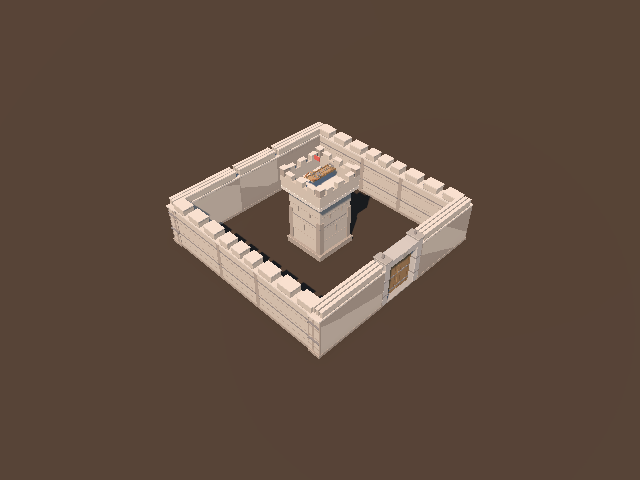
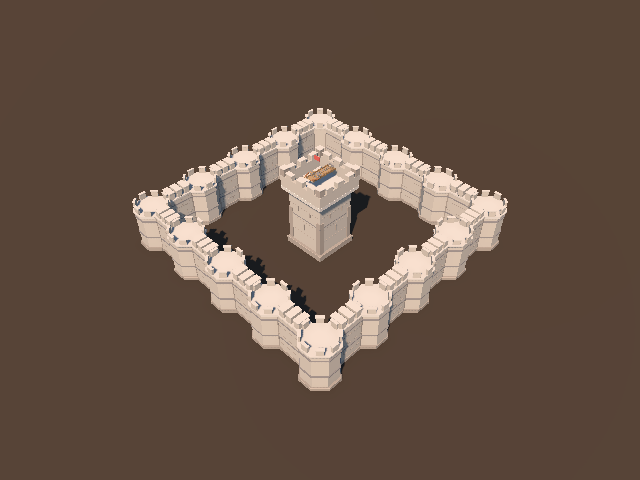
0.9.1

Changed region(s): [[0.1875, 0.2188, 0.8125, 0.8125]]

diff --git a/Defender of the Orcish Marches/Assets/Scripts/UI/TutorialManager.cs b/Defender of the Orcish Marches/Assets/Scripts/UI/TutorialManager.cs
@@ -140,8 +140,9 @@ public class TutorialManager : MonoBehaviour
                 title = "Your Fortress",
                 spriteName = "tut_fortress",
                 body = "At the center of the map stands your <b>Tower</b> — if enemies reach it, the game is over.\n\n" +
-                       "Surrounding the tower is a ring of <b>Walls</b> that block enemy advance. " +
-                       "Your units can slip through the gaps between wall segments.\n\n" +
+                       "Surrounding the tower is a square ring of <b>Walls</b> with octagonal towers " +
+                       "at each joint. Your menials and defenders can slip through the narrow gaps " +
+                       "between towers, but enemies are too large to fit.\n\n" +
                        "Protect the walls. They are your first line of defense."
             },
             new TutorialPage
@@ -151,17 +152,19 @@ public class TutorialManager : MonoBehaviour
                 body = "Use the <b>Scroll Wheel</b> to zoom in and out across the battlefield.\n\n" +
                        "The camera is centered on your fortress, giving you a full overhead view " +
                        "of the surrounding terrain.\n\n" +
-                       "Keep an eye on the western approach — that is where the enemy hordes come from."
+                       "Enemies initially attack from the <b>west</b>, but the spawn arc widens each day — " +
+                       "keep watch in all directions."
             },
             new TutorialPage
             {
                 title = "The HUD",
                 spriteName = "tut_topdown",
                 body = "The bar at the top of the screen shows vital information:\n\n" +
-                       "  <b>Gold</b> — your currency for buying upgrades and defenders\n" +
+                       "  <b>Gold</b> — your currency for upgrades and defenders\n" +
                        "  <b>Menials</b> — idle / total workforce count\n" +
-                       "  <b>Phase Timer</b> — time remaining in the current phase\n" +
-                       "  <b>Enemy Count</b> — how many foes remain\n" +
+                       "  <b>Defenders</b> — count of each defender type\n" +
+                       "  <b>Phase Timer</b> — elapsed game time\n" +
+                       "  <b>Enemy Count</b> — remaining / total enemies this day\n" +
                        "  <b>Kills</b> — total enemies slain\n" +
                        "  <b>Day/Night Wheel</b> — shows the current cycle position"
             },
@@ -170,11 +173,27 @@ public class TutorialManager : MonoBehaviour
                 title = "Day & Night Cycle",
                 spriteName = "tut_side",
                 body = "The game alternates between <b>Day</b> and <b>Night</b> phases.\n\n" +
-                       "<b>Day (Attack Phase)</b>\nEnemies spawn from the <b>west</b> and assault your fortress. " +
-                       "Each day the spawn arc widens, threatening more of your walls.\n\n" +
-                       "<b>Night (Build Phase)</b>\nNo enemies attack. Use this time to buy upgrades, " +
-                       "recruit defenders, and repair walls.\n\n" +
-                       "The day/night wheel on the HUD shows where you are in the cycle."
+                       "<b>Day (Attack Phase)</b>\nEnemies spawn and assault your fortress. " +
+                       "Each day the spawn arc widens, threatening more of your walls. " +
+                       "Enemies grow stronger with each passing day.\n\n" +
+                       "<b>Night (Build Phase)</b>\nOnce all enemies are cleared and the sun sets, " +
+                       "a <b>Build Phase</b> begins. Use this time to place new walls, " +
+                       "recruit defenders, and prepare for the next assault."
+            },
+            new TutorialPage
+            {
+                title = "Build Mode",
+                spriteName = "tut_wallgate",
+                body = "When the <b>Build Phase</b> begins at sunset, wall placement starts automatically " +
+                       "(if you have an engineer and enough gold).\n\n" +
+                       "A green <b>ghost wall</b> follows your cursor. " +
+                       "It snaps to existing walls when close enough.\n\n" +
+                       "  <b>Left Click</b> — place a wall (costs gold)\n" +
+                       "  <b>A / D</b> — rotate the ghost wall\n" +
+                       "  <b>B</b> — exit build mode\n" +
+                       "  <b>Right Click / Escape</b> — exit build mode\n\n" +
+                       "The ghost turns <b>red</b> when you can't afford the next wall. " +
+                       "Build mode ends automatically when you run out of gold."
             },
             new TutorialPage
             {
@@ -198,15 +217,14 @@ public class TutorialManager : MonoBehaviour
             },
             new TutorialPage
             {
-                title = "Walls",
+                title = "Walls & Engineers",
                 spriteName = "tut_wallgate",
-                body = "<b>Walls</b> form a protective ring around your tower. Enemies must break through " +
-                       "them to reach the interior.\n\n" +
-                       "Your menials and defenders can slip through the narrow gaps between wall segments, " +
-                       "but enemies cannot.\n\n" +
-                       "Walls take damage from enemy attacks. If a wall segment is destroyed, " +
-                       "enemies will pour through the breach. You can <b>Build Wall</b> from the " +
-                       "upgrade panel to place new wall segments."
+                body = "<b>Walls</b> form a protective ring around your tower. Each segment is flanked by " +
+                       "octagonal towers that connect to adjacent walls.\n\n" +
+                       "Walls take damage from enemy attacks. When destroyed, enemies pour through the breach.\n\n" +
+                       "New walls placed during <b>Build Mode</b> start under construction — " +
+                       "an <b>Engineer</b> must walk over and build them before they become solid.\n\n" +
+                       "Engineers also automatically <b>repair</b> damaged walls during combat."
             },
             new TutorialPage
             {
@@ -234,9 +252,9 @@ public class TutorialManager : MonoBehaviour
                 spriteName = "tut_side",
                 body = "Press <b>U</b> to open the <b>Upgrade Panel</b>.\n\n" +
                        "Here you can spend gold (and menials) on:\n" +
-                       "  <b>Build Wall</b> — place new wall segments\n" +
                        "  <b>New Defenders</b> — recruit menials into combat roles\n" +
                        "  <b>Ballista Upgrades</b> — more damage, faster fire rate, or additional ballistas\n\n" +
+                       "Number keys <b>1-9</b> act as hotkeys for each upgrade button.\n" +
                        "Press <b>U</b> again or <b>Escape</b> to close the panel."
             },
             new TutorialPage
@@ -244,11 +262,12 @@ public class TutorialManager : MonoBehaviour
                 title = "Defenders",
                 spriteName = "tut_defenders",
                 body = "Defenders are units that fight alongside you. Each type has a unique role:\n\n" +
-                       "  <b>Engineer</b> (30g, 2m) — repairs damaged walls\n" +
+                       "  <b>Engineer</b> (30g, 2m) — repairs damaged walls, builds new ones\n" +
                        "  <b>Pikeman</b> (40g, 2m) — melee fighter, engages enemies up close\n" +
                        "  <b>Crossbowman</b> (50g, 2m) — ranged attacker, fires from a distance\n" +
                        "  <b>Wizard</b> (100g, 3m) — powerful AoE magic, longest range\n\n" +
-                       "Recruit them from the upgrade panel. Costs increase with each purchase."
+                       "Recruit them from the upgrade panel. Costs increase with each purchase. " +
+                       "You need at least one <b>Engineer</b> to enter Build Mode."
             },
             new TutorialPage
             {
@@ -261,7 +280,7 @@ public class TutorialManager : MonoBehaviour
                        "  <b>Suicide Goblin</b> — fast, explodes on contact\n" +
                        "  <b>Cannoneer</b> — long-range siege unit\n" +
                        "  <b>Orc War Boss</b> — massive, devastating; appears around day 10\n\n" +
-                       "Each day the enemy spawn arc widens and enemies grow stronger."
+                       "Enemies that remain when night falls will <b>retreat</b>, but return the next day."
             },
             new TutorialPage
             {
@@ -277,7 +296,7 @@ public class TutorialManager : MonoBehaviour
             {
                 title = "Vegetation",
                 spriteName = "tut_overview",
-                body = "<b>Bushes</b> and <b>Trees</b> grow in the western wilderness.\n\n" +
+                body = "<b>Bushes</b> and <b>Trees</b> grow in the wilderness.\n\n" +
                        "Vegetation spreads at <b>night</b>, filling the battlefield over time. " +
                        "Trees block enemy and defender pathing.\n\n" +
                        "Menials will automatically <b>clear</b> vegetation that blocks their path " +
@@ -291,7 +310,9 @@ public class TutorialManager : MonoBehaviour
                        "and rush toward the tower.\n\n" +
                        "If any enemy reaches the <b>Tower</b>, the game is <b>over</b>.\n\n" +
                        "Keep your walls standing, station defenders near weak points, " +
-                       "and use the ballista to thin enemy ranks before they arrive."
+                       "and use the ballista to thin enemy ranks before they arrive.\n\n" +
+                       "When the enemy path is blocked by walls, they will focus their attacks " +
+                       "on the weakest wall to try to break through."
             },
             new TutorialPage
             {
@@ -299,12 +320,15 @@ public class TutorialManager : MonoBehaviour
                 spriteName = "tut_overview",
                 body = "<b>Hotkey Summary:</b>\n\n" +
                        "  <b>Scroll Wheel</b> — Zoom in/out\n" +
-                       "  <b>Left Click</b> — Fire ballista\n" +
+                       "  <b>Left Click</b> — Fire ballista (or place wall in build mode)\n" +
                        "  <b>Right Click</b> — Send menial to collect loot\n" +
                        "  <b>Tab</b> — Switch active ballista\n" +
                        "  <b>U</b> — Open/close upgrade panel\n" +
+                       "  <b>1-9</b> — Upgrade hotkeys\n" +
+                       "  <b>A / D</b> — Rotate wall in build mode\n" +
+                       "  <b>B</b> — Exit build mode\n" +
                        "  <b>Space</b> — Toggle pause\n" +
-                       "  <b>Escape</b> — Pause menu\n\n" +
+                       "  <b>Escape</b> — Pause menu / exit build mode\n\n" +
                        "Good luck, Commander. The Marches depend on you!"
             }
         };
